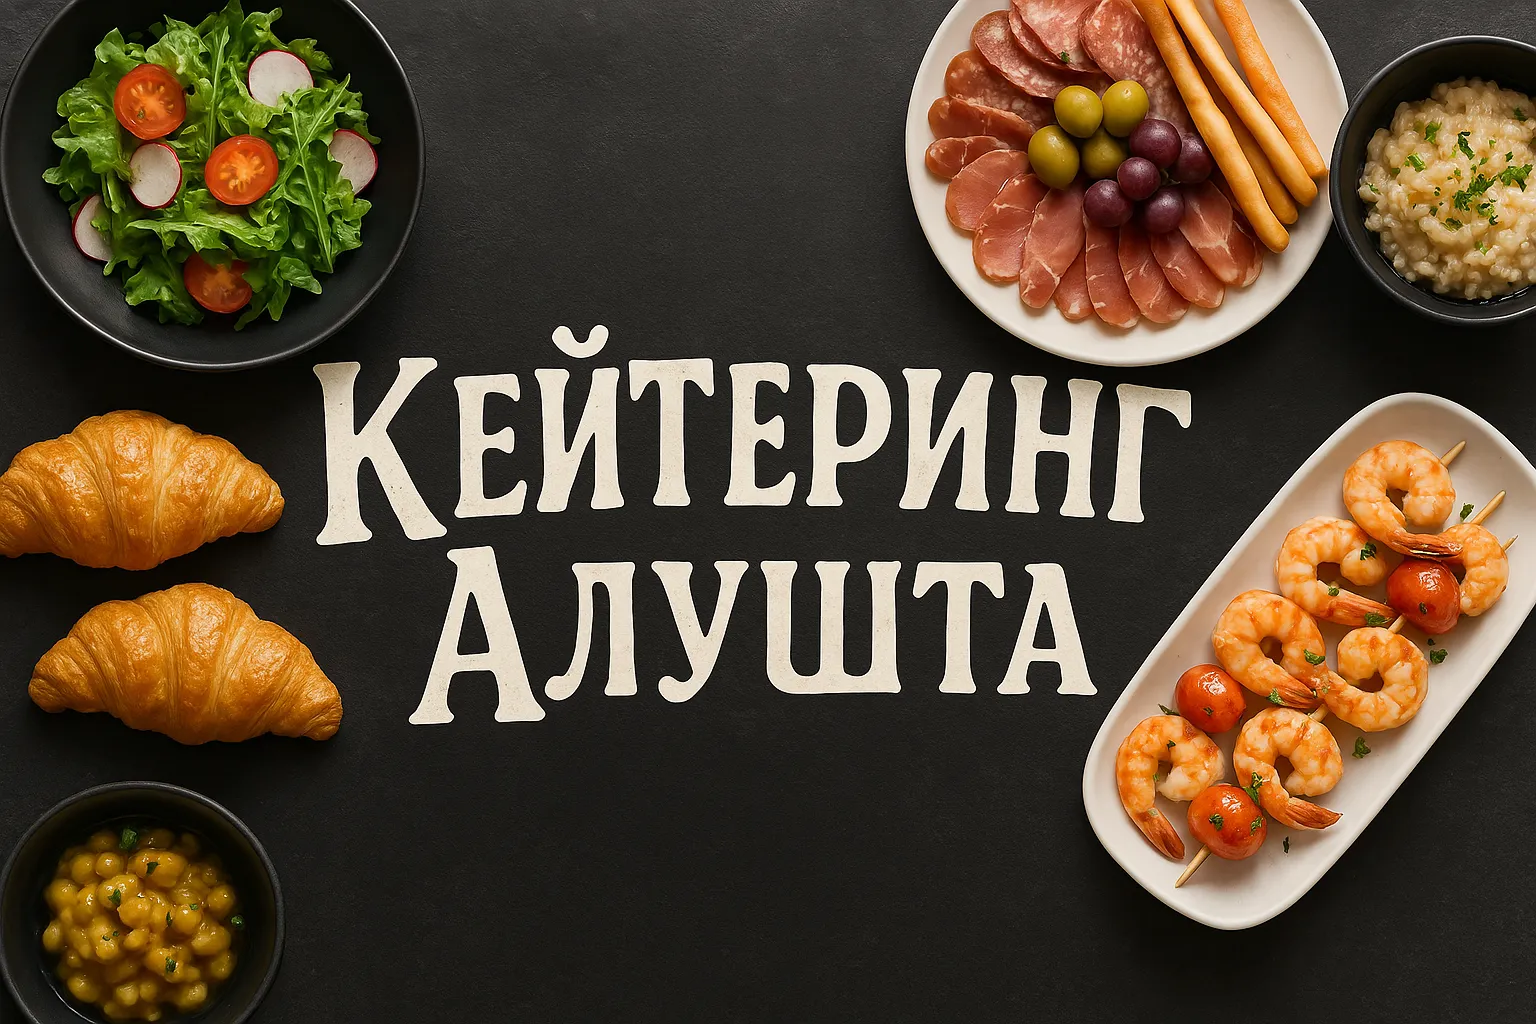
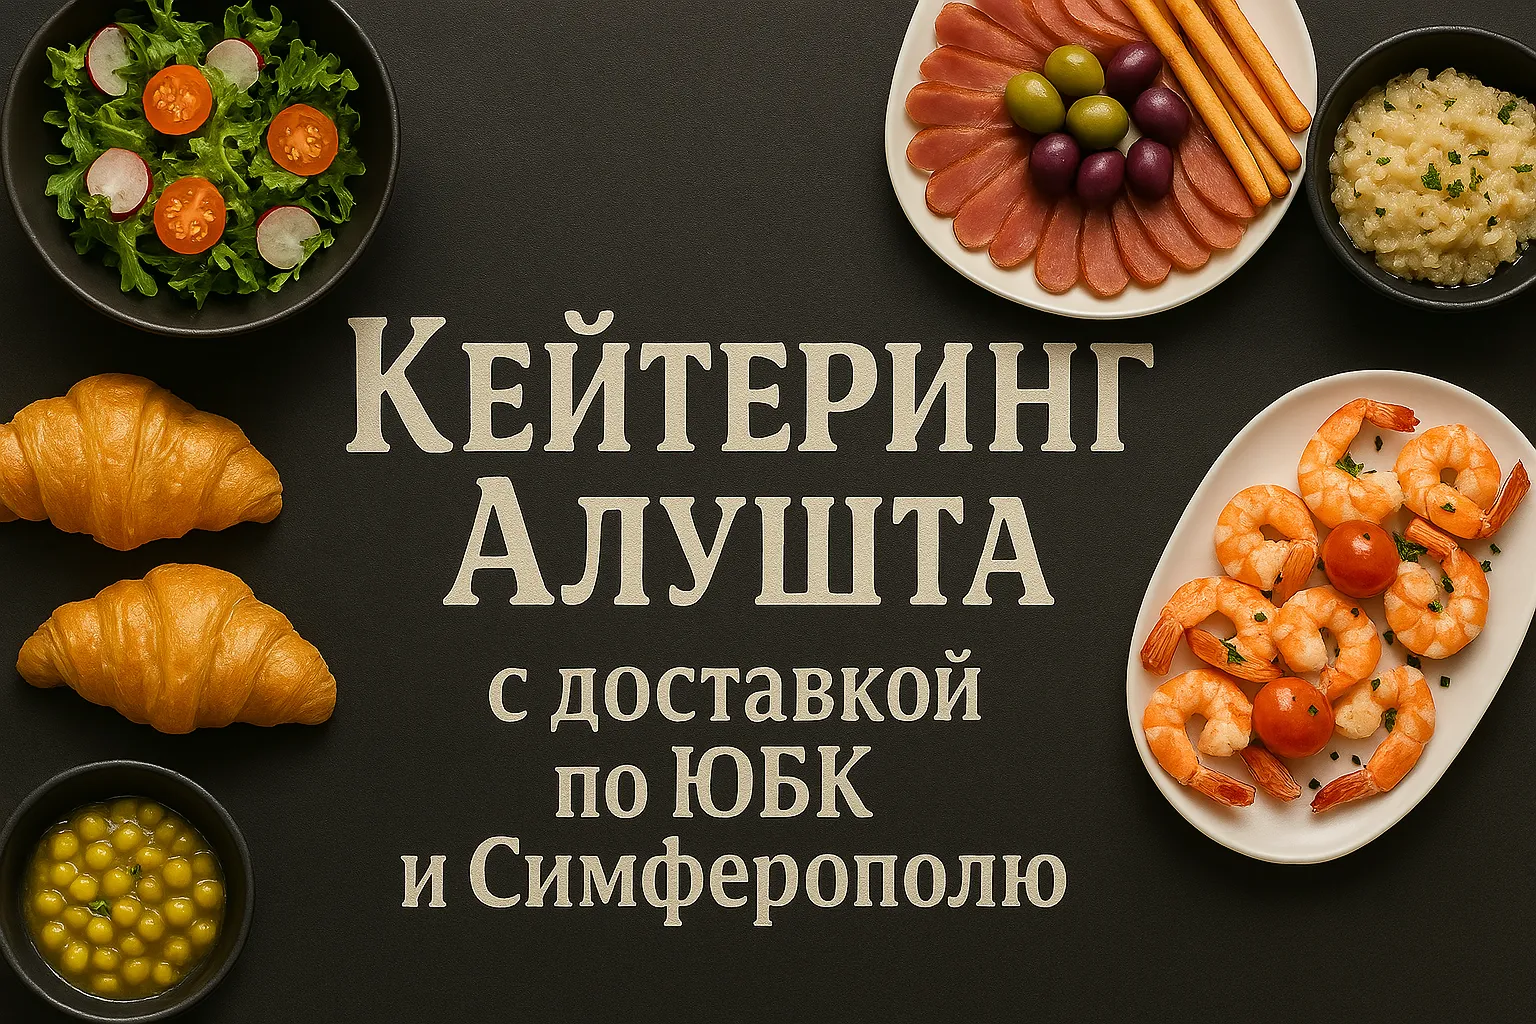
refresh title page

diff --git a/app/components/Form/Form.tsx b/app/components/Form/Form.tsx
@@ -3,6 +3,10 @@ import sendOrder from '@/app/common/sendOrder';
 import React, { useState } from 'react'
 import { IoIosCloseCircle } from 'react-icons/io';
 import { useMask } from '@react-input/mask';
+import { Calendar } from 'primereact/calendar';
+import { setupPrimeReactLocale, formatSelectedDate } from '@/app/common/primereact-locale';
+
+setupPrimeReactLocale();
 
 interface FormModalProps {
   onFormClose: () => void;
@@ -11,25 +15,30 @@ interface FormModalProps {
 const Form: React.FC<FormModalProps> = ({ onFormClose }) => {
   const [name, setName] = useState('');
   const [phone, setPhone] = useState('');
+  const [date, setDate] = useState<Date | null>(null);
+  const [wishes, setWishes] = useState('');
   const inputRef = useMask({
     mask: ' (___) ___-__-__',
     replacement: { _: /\d/ },
   });
+  
+  const isBtnDisabled = name.length < 2 || phone.length < 16;
+
   return (
     <div 
-      className="fixed inset-0 bg-black bg-opacity-60 flex items-center justify-center z-50"
+      className="fixed inset-0 bg-black bg-opacity-60 flex items-center pt-10 justify-center z-50"
       onClick={(e) => {
-        if (window.innerWidth >= 768 && e.target === e.currentTarget) {
+        if (e.target === e.currentTarget) {
           onFormClose();
         }
       }}
     >
       <div
-          className="bg-white max-w-[90%] md:max-w-lg rounded-lg shadow-lg min-h-[410px] max-h-[412px] md:w-auto
-            w-full h-full z-999"
+          className="bg-white max-w-[90%] md:max-w-lg rounded-lg shadow-lg h-auto overflow-y-scroll max-h-[525px] md:w-auto
+            w-full pb-6 z-99999"
           onClick={(e) => e.stopPropagation()}
         >
-        <div className='mb-6 flex justify-end p-3'>
+        <div className='mb-2 flex justify-end p-3'>
           <button
             className="text-2xl text-gray-500"
             onClick={onFormClose}
@@ -41,20 +50,48 @@ const Form: React.FC<FormModalProps> = ({ onFormClose }) => {
         <div className='w-full h-full px-6'>
           <div className="mb-4">
             <label className="block text-sm font-medium text-gray-700 mb-2">
-              Ваше имя
+              Дата *
             </label>
-            <input
-              type="text"
-              value={name}
-              onChange={(e) => setName(e.target.value)}
-              className="w-full border-b border-red-500 p-2 outline-0"
-              placeholder="Введите имя"
-            />
+            <div className="mb-4 flex items-center gap-4">
+              <div className="flex-1">
+                <div className="flex">
+                  <div className="pl-2 w-[150px] flex items-center">
+                    {date ? (
+                      <p className="text-black">{formatSelectedDate(date)}</p>
+                    ) : (
+                      <p className="text-gray-500">Выберите дату</p>
+                    )}
+                  </div>
+                  <Calendar
+                    id="datePicker"
+                    placeholder="Выберите дату"
+                    value={date}
+                    onChange={(e) => setDate(e.value ?? null)}
+                    showIcon
+                    locale="ru"
+                    dateFormat="dd MM yy"
+                  />
+                </div>
+              </div>
+            </div>
+
+            <div className="mb-4">
+              <label className="block text-sm font-medium text-gray-700 mb-2">
+                Количество персон и бюджет *
+              </label>
+              <input
+                type="text"
+                value={wishes}
+                onChange={(e) => setWishes(e.target.value)}
+                className="w-full border-b border-red-500 p-2 outline-0"
+                placeholder="Например: 10 человек, 15000₽"
+              />
+            </div>
           </div>
 
           <div className="mb-4">
             <label className="block text-sm font-medium text-gray-700 mb-2">
-              Номер телефона
+              Телефон *
             </label>
             <div className='flex'>
               <div className='w-10 mr-0 block p-2 pr-0 border-b border-red-500 bg-white'>
@@ -65,24 +102,45 @@ const Form: React.FC<FormModalProps> = ({ onFormClose }) => {
                 value={phone}
                 onChange={(e) => setPhone(e.target.value)}
                 className="block w-full border-b border-red-500 p-2 pl-0 outline-0"
-                placeholder="(999) 999-99-99"
+                placeholder="888 123 45 67"
                 inputMode="numeric"
               />
             </div>
           </div>
+
+          <div className="mb-4">
+            <label className="block text-sm font-medium text-gray-700 mb-2">
+              Имя *
+            </label>
+            <input
+              type="text"
+              value={name}
+              onChange={(e) => setName(e.target.value)}
+              className="w-full border-b border-red-500 p-2 outline-0"
+              placeholder="Ваше Имя"
+            />
+          </div>
+
           <button
+            disabled={isBtnDisabled}
             onClick={async () => {
               await sendOrder({
                 name,
-                phone
+                phone,
+                date,
+                wishes
               });
               setName('');
               setPhone('');
+              setDate(null);
+              setWishes('');
               onFormClose()
             }}
-            className="w-full bg-red-500 text-white py-3 rounded-md mt-4"
+            className={`w-full text-white py-3 rounded-md mt-4 ${
+              isBtnDisabled ? 'bg-red-300 cursor-not-allowed' : 'bg-red-500'
+            }`}
           >
-            Отправить заявку
+            Отправить
           </button>
         </div>
       </div>

diff --git a/app/components/Cart/Cart.tsx b/app/components/Cart/Cart.tsx
@@ -1,10 +1,8 @@
 import React, { useState } from 'react';
 import { useDispatch, useSelector } from 'react-redux';
 import { AppDispatch, RootState } from '@/app/GlobalRedux/store';
-import DatePicker from 'react-datepicker';
 import 'react-datepicker/dist/react-datepicker.css';
 import { Calendar } from 'primereact/calendar';
-// import { addLocale } from 'primereact/api';
 import sendOrder from '@/app/common/sendOrder';
 import { useMask } from '@react-input/mask';
 import { Button } from 'primereact/button';
@@ -13,47 +11,9 @@ import CartItems from './CartItems';
 import DeliveryMethod from './DeliveryMethod';
 import { clearCart } from '@/app/GlobalRedux/Features/cartSlice';
 import { formatSelectedDate, shortDates } from '@/app/common/shortDates';
-import { addLocale, locale } from 'primereact/api';
+import {setupPrimeReactLocale} from '@/app/common/primereact-locale';
 
-addLocale('ru', {
-  firstDayOfWeek: 1,
-
-  dayNames: ['воскресенье', 'понедельник', 'вторник', 'среда', 'четверг', 'пятница', 'суббота'],
-  dayNamesShort: ['вс', 'пн', 'вт', 'ср', 'чт', 'пт', 'сб'],
-  dayNamesMin: ['Вс', 'Пн', 'Вт', 'Ср', 'Чт', 'Пт', 'Сб'],
-  monthNames: [
-    'января',
-    'февраля',
-    'марта',
-    'апреля',
-    'мая',
-    'июня',
-    'июля',
-    'августа',
-    'сентября',
-    'октября',
-    'ноября',
-    'декабря',
-  ],
-  monthNamesShort: [
-    'янв',
-    'фев',
-    'мар',
-    'апр',
-    'май',
-    'июн',
-    'июл',
-    'авг',
-    'сен',
-    'окт',
-    'ноя',
-    'дек',
-  ],
-  today: 'Сегодня',
-  clear: 'Очистить',
-});
-
-locale('ru');
+setupPrimeReactLocale();
 interface CartModalProps {
   onClose: () => void;
   isModalOpen: boolean;
@@ -74,8 +34,6 @@ const CartModal: React.FC<CartModalProps> = ({ onClose }) => {
   });
   const [wishes, setWishes] = useState('');
   const [name, setName] = useState('');
-
-  addLocale('ru', shortDates);
 
   const isBtnDisabled =
     deliveryMethod === 'courier'
@@ -223,7 +181,9 @@ const CartModal: React.FC<CartModalProps> = ({ onClose }) => {
                 dispatch(clearCart());
                 onClose();
               }}
-              className="w-full bg-green-600 text-white py-3 rounded-md mt-4"
+              className={`w-full text-white py-3 rounded-md mt-4 ${
+                isBtnDisabled ? 'bg-red-300 cursor-not-allowed' : 'bg-red-500'
+              }`}
             />
             <p className="text-sm text-center text-gray-500 mt-4">
               Стоимость доставки уточняйте у менеджера.

diff --git a/app/components/Main/Main.tsx b/app/components/Main/Main.tsx
@@ -17,10 +17,12 @@ const Main = () => {
         />
       </div>
       <div className='absolute top-0 left-0 right-0 bottom-0 z-5 flex flex-col justify-center items-center'>
-        <h1 className='text-3xl md:text-4xl text-white font-bold shadow-3xl text-center'>Празднуйте с нами — получите скидку <br></br> <b className='text-red-400 text-4xl md:text-5xl'>10%</b> <br></br>
-        В ДЕНЬ РОЖДЕНИЯ!</h1>
+        <h1 className='text-3xl md:text-4xl text-white font-bold shadow-3xl text-center'>
+          Кейтеринг<br></br> с доставкой <br></br> 
+          <b className='text-4xl md:text-5xl'>по ЮБК<br></br>и Симферополю</b>
+         </h1>
 
-        <button onClick={() => setIsFormOpen(true)} className='p-4 bg-amber-700 text-amber-50 shadow-lg font-bold rounded-sm mt-20 hover:bg-amber-800 transition-all cursor-pointer'>Получить скидку!</button>
+        <button onClick={() => setIsFormOpen(true)} className='p-4 bg-amber-700 text-amber-50 shadow-lg font-bold rounded-md mt-20 hover:bg-amber-800 transition-all cursor-pointer'>Рссчитать фуршет</button>
       </div>
       {isFormOpen && <Form onFormClose={() => setIsFormOpen(false)} />}
     </section>

diff --git a/app/common/primereact-locale.ts b/app/common/primereact-locale.ts
@@ -1,0 +1,29 @@
+import { addLocale } from 'primereact/api';
+
+export const setupPrimeReactLocale = () => {
+  addLocale('ru', {
+    firstDayOfWeek: 1,
+    dayNames: ['Воскресенье', 'Понедельник', 'Вторник', 'Среда', 'Четверг', 'Пятница', 'Суббота'],
+    dayNamesShort: ['Вс', 'Пн', 'Вт', 'Ср', 'Чт', 'Пт', 'Сб'],
+    dayNamesMin: ['Вс','Пн','Вт','Ср','Чт','Пт','Сб'],
+    monthNames: [
+      'Январь', 'Февраль', 'Март', 'Апрель', 'Май', 'Июнь',
+      'Июль', 'Август', 'Сентябрь', 'Октябрь', 'Ноябрь', 'Декабрь'
+    ],
+    monthNamesShort: [
+      'Янв', 'Фев', 'Мар', 'Апр', 'Май', 'Июн',
+      'Июл', 'Авг', 'Сен', 'Окт', 'Ноя', 'Дек'
+    ],
+    today: 'Сегодня',
+    clear: 'Очистить',
+    dateFormat: 'dd.mm.yy', // используется в input
+  });
+};
+
+export const formatSelectedDate = (date: Date): string => {
+  return date.toLocaleDateString('ru-RU', {
+    day: 'numeric',
+    month: 'long',
+    year: 'numeric',
+  });
+};
